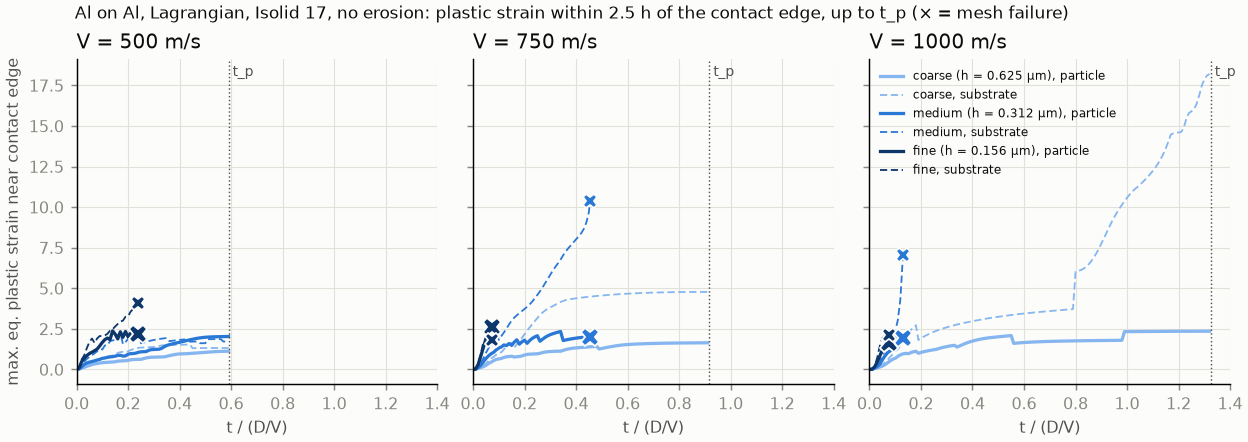
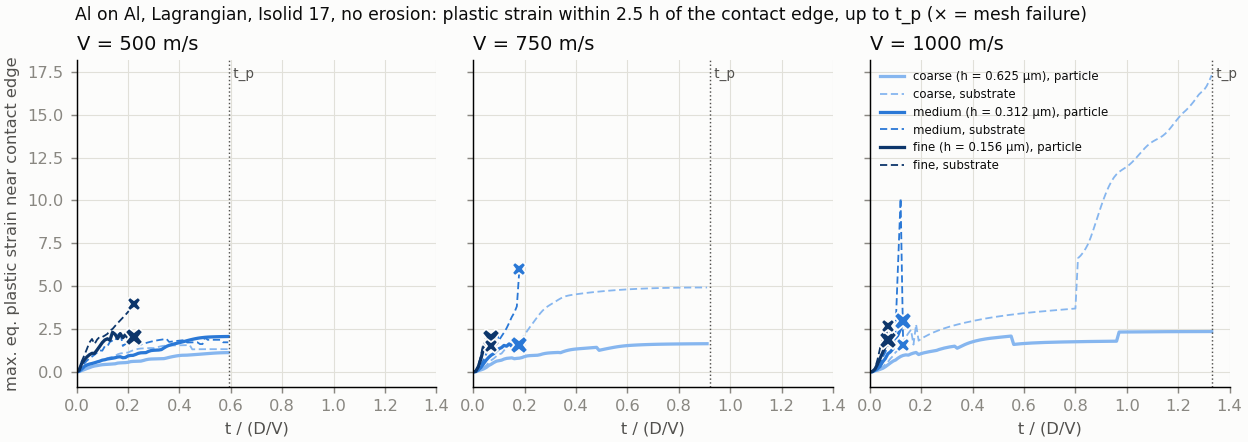
OpenCourant §8.3: rerun the Lagrangian jet diagnostic with sourced Al gamma0 = 2.17
All nine runs repeated (placeholder 1.678 results kept as *_gamma1678.csv).
Conclusion unchanged: failure earlier with refinement, edge strain not
converged. Medium 750 m/s now fails at 0.20 t_p (was 0.49), before a jet.

diff --git a/docs/research/opencourant/scripts/option1_alal.py b/docs/research/opencourant/scripts/option1_alal.py
@@ -6,10 +6,10 @@ reached). Reports the failure time as a fraction of D/V and the equivalent plast
 just before failure. No critical velocity is derived from this (Peter, open item 8).
 
 Material: LAW4 (Johnson-Cook) + /EOS/GRUNEISEN, Al. Values from docs/research/data/properties.csv:
-  P-HG-Al (HG2018a preprint, Extended Data Table 1): rho, T_m, c_p, nu, C0 = sqrt(B/rho), s, JC A, B, n, C, m
+  P-HG-Al (HG2018a preprint, Extended Data Table 1): rho, T_m, c_p, nu, C0 = sqrt(B/rho), s, gamma0 = 2.17,
+  JC A, B, n, C, m, reference strain rate 1 1/s, T_ref = 293 K
   P-H20-Al (Hassani2020 Table S1): E = 70 GPa (consistent with B = 76, G = 26 of P-HG-Al)
-  Not in either source, flagged: gamma0 = 2 s - 1 (common Hugoniot-slope approximation); JC reference strain
-  rate 1 1/s.
+  (The first sweep used the placeholder gamma0 = 2 s - 1 = 1.678; replaced 2026-11-04, see section 8.3.)
 Temperature: computed but not written out with Isolid = 17 (opencourant-verification.md section 5.3).
 
 Usage: python option1_alal.py run <work_dir> <out_csv> [V ...]      (velocities in m/s; default 500 750 1000)
@@ -31,9 +31,10 @@ from ocdeck import _f, _group, _i, _material_cards  # noqa: E402
 
 R = 10e-6
 S_HUG = 1.339
+GAMMA0 = float(os.environ.get("GAMMA0", "2.17"))  # P-HG-Al; env override only to reproduce the 1.678 sweep
 AL = oc.JohnsonCookGruneisen(E=70e9, nu=0.35, rho=2700.0, A=148.4e6, B=345.5e6, n=0.183, C=0.001, eps_dot0=1.0,
                              m=0.895, T_melt=933.0, rho_cp=2700.0 * 896.9, T_r=293.0, c0=5305.5, S1=S_HUG,
-                             gamma0=2 * S_HUG - 1, heat_efrac=None)
+                             gamma0=GAMMA0, heat_efrac=None)
 MESHES = {"coarse": 8, "medium": 16, "fine": 32}  # n = core cells across the particle radius / 2 ... see ogrid
 
 

diff --git a/docs/research/opencourant-verification.md b/docs/research/opencourant-verification.md
@@ -21,7 +21,7 @@ is used or copied.
 | Rung 0p (elastic-plastic two-wave) | **Agrees with the closed form** with q ≈ 0: wall stress σ₂ to 0.9997 at 200 elements, plastic front speed 0.993 c_b, elastic front 0.997 c_d; ε_p behind the plastic wave 1.05 (q ≈ 0) and 0.986 (default q) of the closed form. |
 | **Axisymmetric element** | **Use `Isolid = 17`** (4-point quad). The default 2D solid is area-weighted. It fails the Hertz sphere (about 5 × too stiff, mesh-independent) and loses axial momentum in free flight; it passes only the 1D cases. With `Isolid = 17` OpenCourant agrees with the JAX code on the unconfined disc (to 0.004 V) and on the Hertz sphere (to about 1 %). **Lagrangian only**: with ALE the starter falls back to the area-weighted element (§5.4). §5 |
 | Rung 1 (Hertz sphere) | **Agrees with the JAX code** (contact, peak, approach and rebound within about 1 % at 10 × 20, 15 × 30, 20 × 40). Both are 4–5 % short of quasi-static Hertz at 20 m/s and approach it at lower speed (dynamic effect). |
-| Jet distortion (open item 8) | **SPH is 3D-only** (source: no N2D use, 3D kernel only). **No Lagrangian remeshing for `/QUAD`** (`/ADMESH` is shells only). **Option 1 (Lagrangian, `Isolid = 17`, Al–Al, 500–1000 m/s):** the mesh fails at the jet root at 6–40 % of the penetration time on the finest mesh, earlier with refinement; edge quantities are not converged. A bonding criterion cannot be evaluated before failure. §8 |
+| Jet distortion (open item 8) | **SPH is 3D-only** (source: no N2D use, 3D kernel only). **No Lagrangian remeshing for `/QUAD`** (`/ADMESH` is shells only). **Option 1 (Lagrangian, `Isolid = 17`, Al–Al, 500–1000 m/s):** the mesh fails at the jet root at 5–37 % of the penetration time on the finest mesh, earlier with refinement; edge quantities are not converged (rerun with sourced γ₀ = 2.17: same conclusion). A bonding criterion cannot be evaluated before failure. §8 |
 | Pitfalls found | (1) The rigid-wall force output `FNZ` is ∫σ dr, not a force, in axisymmetric runs. (2) Default quadratic bulk viscosity + default time-step scale goes unstable (zero volume at cycle 0) on 50:1 quads. (3) Default bulk viscosity costs 5–7 % rebound velocity in the elastic case. (4) Axisymmetric time-history internal energy (and the ERR % energy-balance column) reads zero: energy balance cannot be checked from it. (5) With `Isolid = 17` the temperature is computed but not written out. |
 
 ## 1. Method
@@ -412,6 +412,9 @@ uses the area-weighted element (§5.4).
 
 ### 8.3 Option 1 diagnostic: Lagrangian `Isolid = 17`, no erosion
 
+**Rerun with the sourced γ₀ = 2.17 (2026-11-04): the conclusion does not change.** Failure still comes earlier
+with refinement at every speed and the edge strain is still not converged. Details below.
+
 **Set-up** ([`option1_alal.py`](opencourant/scripts/option1_alal.py)):
 - **Particle:** Al sphere, R = 10 µm, O-grid mesh (square core plus mapped layers, regular quads along the whole lower surface).
 - **Substrate:** Al block 5R × 5R. Cell size h is matched to the particle within 1.5R of the contact, then graded; bottom fixed.
@@ -419,9 +422,9 @@ uses the area-weighted element (§5.4).
 - **Element and models:** `Isolid = 17`, default bulk viscosity, no erosion, no failure model (P_min = −10³⁰).
 
 **Material:** LAW4 + `/EOS/GRUNEISEN` from `docs/research/data/properties.csv`.
-- **P-HG-Al** (HG2018a preprint, Extended Data Table 1): ρ = 2700, T_m = 933 K, c_p = 896.9 J/(kg K), ν = 0.35, C₀ = 5305.5 m/s (√(B/ρ), as the preprint uses it), s = 1.339, JC A = 148.4 MPa, B = 345.5 MPa, n = 0.183, C = 0.001, m = 0.895.
+- **P-HG-Al** (HG2018a preprint, Extended Data Table 1): ρ = 2700, T_m = 933 K, c_p = 896.9 J/(kg K), ν = 0.35, C₀ = 5305.5 m/s (√(B/ρ), as the preprint uses it), s = 1.339, **γ₀ = 2.17**, JC A = 148.4 MPa, B = 345.5 MPa, n = 0.183, C = 0.001, m = 0.895, reference strain rate 1 s⁻¹, T_ref = 293 K.
 - **P-H20-Al** (Hassani2020 Table S1): E = 70 GPa.
-- **Not in either source, flagged:** γ₀ = 2s − 1 = 1.678 (Hugoniot-slope approximation) and JC reference strain rate 1 s⁻¹.
+- **γ₀ history:** the first sweep (commit `01a1f6b`) used a placeholder γ₀ = 2s − 1 = 1.678 because no sourced value was in the table. Peter added the preprint values on 2026-11-04 (γ₀ = 2.17; the reference strain rate 1 s⁻¹ and T_ref = 293 K were already the values used). All nine runs were repeated with γ₀ = 2.17; the table below is that rerun. The placeholder results are kept in [`results/option1_alal_gamma1678.csv`](opencourant/results/option1_alal_gamma1678.csv) and [`results/option1_alal_eval_gamma1678.csv`](opencourant/results/option1_alal_eval_gamma1678.csv).
 
 **Runs:**
 - V = 500, 750, 1000 m/s × h = 0.625, 0.3125, 0.156 µm (R/16, R/32, R/64).
@@ -430,46 +433,47 @@ uses the area-weighted element (§5.4).
 - **Reference contact time t_p:** the end of penetration, when the particle's axial velocity crosses zero. It is taken from the coarse run, which reaches it at all speeds; it is mesh-insensitive (500 m/s: 0.590 coarse, 0.598 medium).
 - **Edge quantities:** maximum equivalent plastic strain within 2.5 h of the contact edge (the outermost particle rim node on the substrate surface), at t_eval = min(t_stop, t_p).
 
-| V (m/s) | mesh (h) | outcome | t_stop / t_p | t_eval / (D/V) | contact radius a/R | ε_p edge, particle | ε_p edge, substrate | engine (s) |
-|---|---|---|---|---|---|---|---|---|
-| 500 | coarse (0.625 µm) | reached 2 D/V | – | 0.59 | 1.22 | 1.12 | 1.32 | 4.8 |
-| 500 | medium (0.312 µm) | reached 2 D/V | – | 0.59 | 1.19 | 2.03 | 1.72 | 49 |
-| 500 | fine (0.156 µm) | **dt collapse** | **0.40** | 0.23 | 1.00 | 2.11 | 3.92 | 65 |
-| 750 | coarse (0.625 µm) | reached 2 D/V | – | 0.91 | 1.40 | 1.64 | 4.78 | 8.5 |
-| 750 | medium (0.312 µm) | **dt collapse** | **0.49** | 0.45 | 1.28 | 2.02 | 9.69 | 33 |
-| 750 | fine (0.156 µm) | **dt collapse** | **0.08** | 0.07 | 0.61 | 2.34 | 1.90 | 8.9 |
-| 1000 | coarse (0.625 µm) | reached 2 D/V | – | 1.32 | 1.51 | 2.36 | 18.2 | 11 |
-| 1000 | medium (0.312 µm) | **dt collapse** | **0.10** | 0.13 | 0.79 | 1.94 | 7.04 | 1.5 |
-| 1000 | fine (0.156 µm) | **dt collapse** | **0.06** | 0.07 | 0.60 | 1.55 | 2.00 | 7.4 |
+| V (m/s) | mesh (h) | outcome | t_stop / t_p | t_eval / (D/V) | contact radius a/R | ε_p edge, particle | ε_p edge, substrate | engine (s) | γ₀ = 1.678: t_stop / t_p |
+|---|---|---|---|---|---|---|---|---|---|
+| 500 | coarse (0.625 µm) | reached 2 D/V | – | 0.59 | 1.22 | 1.13 | 1.33 | 5.9 | – |
+| 500 | medium (0.312 µm) | reached 2 D/V | – | 0.59 | 1.19 | 2.06 | 1.73 | 59 | – |
+| 500 | fine (0.156 µm) | **dt collapse** | **0.37** | 0.21 | 0.96 | 2.14 | 3.68 | 65 | 0.40 |
+| 750 | coarse (0.625 µm) | reached 2 D/V | – | 0.91 | 1.40 | 1.64 | 4.92 | 9.9 | – |
+| 750 | medium (0.312 µm) | **dt collapse** | **0.20** | 0.18 | 0.91 | 1.56 | 6.00 | 3.8 | 0.49 |
+| 750 | fine (0.156 µm) | **dt collapse** | **0.08** | 0.06 | 0.56 | 2.16 | 2.01 | 7.0 | 0.08 |
+| 1000 | coarse (0.625 µm) | reached 2 D/V | – | 1.33 | 1.51 | 2.35 | 17.3 | 14 | – |
+| 1000 | medium (0.312 µm) | **dt collapse** | **0.10** | 0.13 | 0.82 | 2.97 | 1.57 | 1.5 | 0.10 |
+| 1000 | fine (0.156 µm) | **dt collapse** | **0.05** | 0.06 | 0.55 | 1.47 | 1.72 | 5.6 | 0.06 |
 
-t_p / (D/V) = 0.590, 0.918, 1.325 at 500, 750, 1000 m/s. Tables:
+t_p / (D/V) = 0.593, 0.920, 1.333 at 500, 750, 1000 m/s (γ₀ = 1.678: 0.590, 0.918, 1.325). Tables:
 [`results/option1_alal.csv`](opencourant/results/option1_alal.csv) (per run) and
 [`results/option1_alal_eval.csv`](opencourant/results/option1_alal_eval.csv) (evaluation).
 
 ![Edge plastic strain until failure](opencourant/figures/option1_edge_strain.png)
 
-![Al on Al, 750 m/s, medium mesh, up to the time-step collapse](opencourant/figures/option1_al750_medium.gif)
+![Al on Al, 500 m/s, medium mesh, to 2 D/V](opencourant/figures/option1_al500_medium.gif)
 
-*750 m/s, medium mesh, mirrored, until the run stops at 0.45 D/V. A thin substrate jet forms at r ≈ 1.3–1.7 R
-along the particle; its cells collapse.*
+*500 m/s, medium mesh, mirrored, to 2 D/V (this run survives). The substrate edge cells at r ≈ R are sheared
+flat; a coarse-mesh run that survives is not a converged one (see below).*
 
 **Where the runs fail** ([`option1_failure.py`](opencourant/scripts/option1_failure.py)):
-- Every collapse that could be located is controlled by a **substrate surface cell at the contact edge** (centroid z ≈ 0, 0.10–0.23 R from the edge), with a smallest interior angle of 0.1–0.5° (aspect 5–21), i.e. a collapsed cell.
-- The surviving coarse runs end with edge cells at about 2° and dt ≈ 0.18–0.2 dt₀.
+- Every collapse that could be located is controlled by a **substrate surface cell at the contact edge** (centroid z ≈ 0, 0.09–0.15 R from the edge), with a smallest interior angle of 0.3–0.5° (aspect 7–17), i.e. a collapsed cell. (γ₀ = 1.678: 0.10–0.23 R, 0.1–0.5°.)
+- The surviving runs end with controlling substrate cells at 1.8–4.7° and dt ≈ 0.17–0.36 dt₀ (500 m/s coarse: a particle cell at 26°, 0.57 dt₀).
 - **It is element distortion at the root of the jet, not contact stiffness.**
 - Medium 1000 m/s stopped before the first 500-cycle printout, so its controlling cell is not in the listing.
 - The threshold dt₀/30 is a choice. The controlling cells were already near zero angle, so a lower threshold would gain little time (not tested).
 
 **Convergence:**
-- **The failure time does not converge; it gets earlier with refinement at every speed.** At 500 m/s: none, none, 0.40 t_p. At 750: none, 0.49, 0.08 t_p. At 1000: none, 0.10, 0.06 t_p.
-- Finer cells at the edge are crushed sooner, as expected at a moving shear singularity. The observed drop is more than 2× per halving of h (750 m/s: 0.49 → 0.08 t_p).
-- The edge plastic strain is not mesh-converged either. At 500 m/s at t_p: 1.12 (coarse) and 2.03 (medium); fine fails at 0.40 t_p with 2.11. The substrate edge strain varies by up to 10× between meshes at the same speed.
+- **The failure time does not converge; it gets earlier with refinement at every speed.** At 500 m/s: none, none, 0.37 t_p. At 750: none, 0.20, 0.08 t_p. At 1000: none, 0.10, 0.05 t_p.
+- Finer cells at the edge are crushed sooner, as expected at a moving shear singularity.
+- The edge plastic strain is not mesh-converged either. At 500 m/s at t_p: 1.13 (coarse) and 2.06 (medium); fine fails at 0.37 t_p with 2.14. The substrate edge strain varies by up to 10× between meshes at the same speed.
+- **Effect of γ₀ (1.678 → 2.17):** eight of nine runs change by at most 0.03 t_p in failure time, and most edge strains by under 10 %. The edge values of failing runs move more (1000 m/s medium, particle: 1.94 → 2.97), as expected for values read off a collapsing cell. The exception is medium 750 m/s, which now fails at 0.20 t_p instead of 0.49 t_p. A failure time that moves by a factor 2.5 under a 30 % change of an EOS parameter that barely affects the other runs is itself a sign that it is set by a collapsing cell, not by the physics.
 - **Temperature:** not available. `Isolid = 17` does not write it out (§5.3). The values would come only from LAW4's built-in update (plastic work plus q work plus EOS heating, §2.1).
 
 **Answer to Peter's question (no critical velocity is claimed):**
 - **No.** In 2D Lagrangian with the verified element, a jetting or shear-instability criterion at the contact edge cannot be evaluated mesh-converged before the mesh fails.
-- On the finest mesh the run fails at 6–40 % of the penetration time, in most cases before a jet has formed (contact radius 0.6–1.0 R).
-- On the medium mesh at 750 m/s a jet is visible before failure. It would disappear under refinement, because the refined runs fail earlier.
+- On the finest mesh the run fails at 5–37 % of the penetration time, in most cases before a jet has formed (contact radius 0.6–1.0 R).
+- With γ₀ = 1.678 the medium 750 m/s run showed a thin substrate jet before failing at 0.49 t_p. With γ₀ = 2.17 it fails at 0.20 t_p, before a jet, so that observation did not even survive a change of γ₀, let alone refinement.
 - Coarse meshes survive to t_p, but their edge values are not converged and so cannot carry a criterion.
 
 ### 8.4 What the SPH result means for the plan
